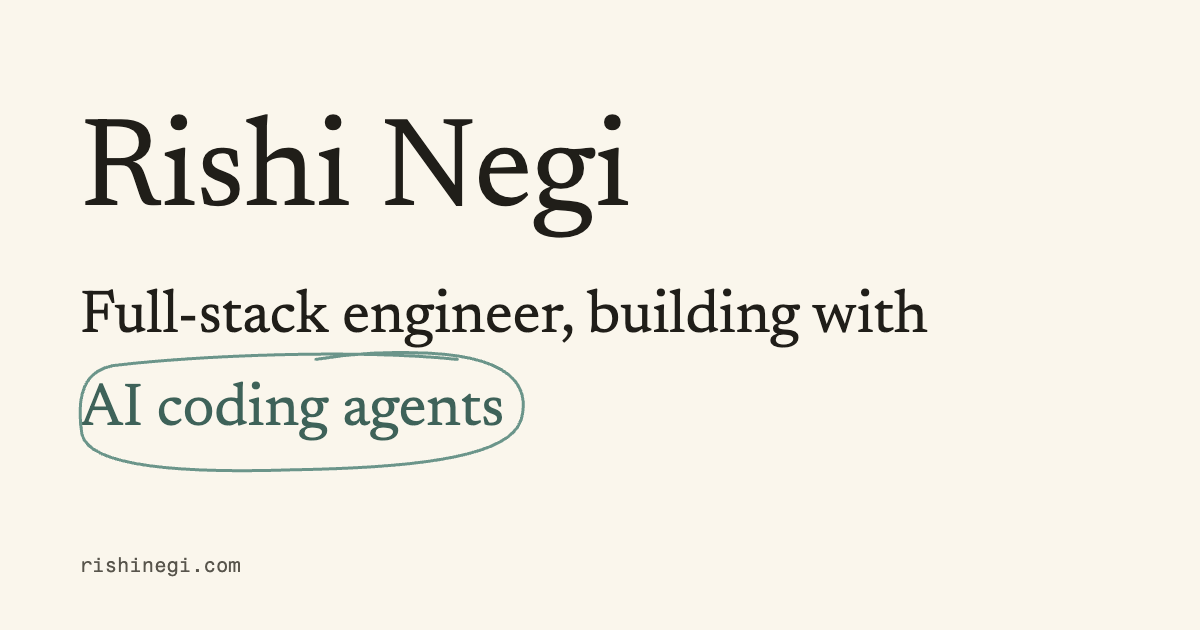
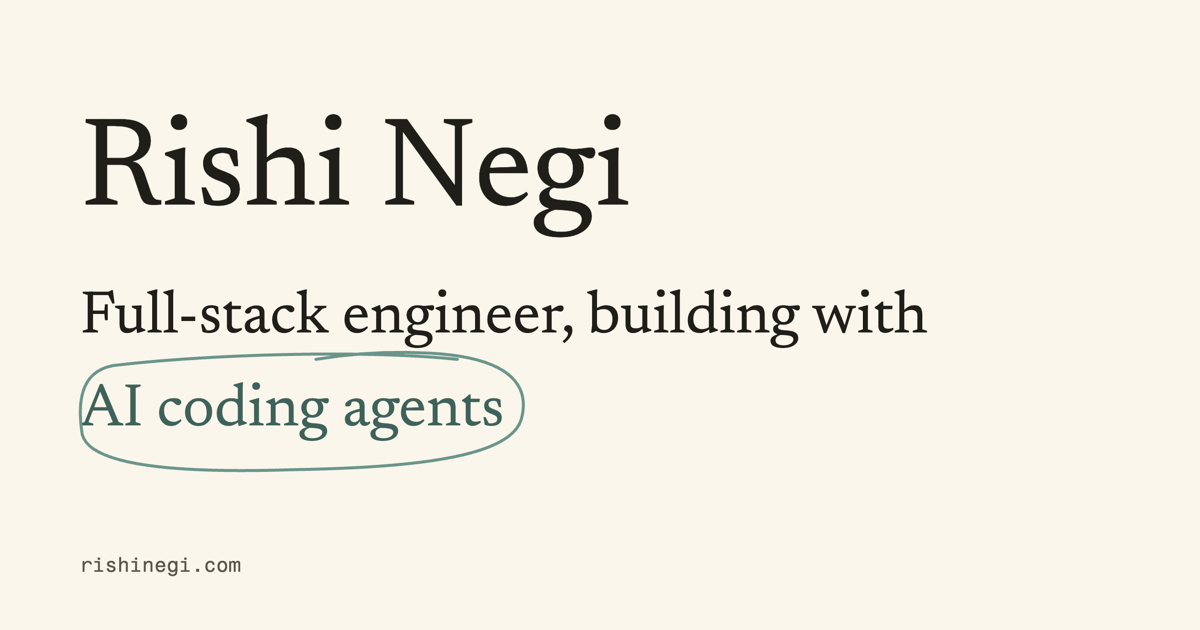
Sharpen the home link-preview image and cache-bust both og images
og.png is re-rendered with the same 2x render and high-quality
downscale as og-applyd.png, so its text edges are clean in previews.
Scrapers cache an image by its URL, so both og:image URLs gain ?v=2
(index.html for home, pageMeta.applyd.ogImage for the case study);
bump it whenever an image changes. The page-previews plugin's check
that the image is in public/ now ignores the query string.

diff --git a/src/content.ts b/src/content.ts
@@ -65,8 +65,9 @@ export const pageMeta = {
     title: 'Applyd case study | Rishi Negi',
     description:
       'How I built Applyd, a job application tracker, by hand and then with Claude Code.',
-    /** the link-preview image, made by scripts/og-applyd.tsx */
-    ogImage: '/og-applyd.png',
+    /** the link-preview image, made by scripts/og-applyd.tsx. The ?v= is a cache-buster:
+     *  scrapers cache an image by its URL, so bump it whenever the image changes. */
+    ogImage: '/og-applyd.png?v=2',
     ogImageAlt:
       'Applyd, a job application tracker. A case study: one job tracker, built by hand ' +
       'and then with Claude Code. Beside the title, a screenshot of its Paper redesign. ' +

diff --git a/vite.config.ts b/vite.config.ts
@@ -71,8 +71,10 @@ function pagePreviews(): Plugin {
       ).origin
 
       for (const page of [pageMeta.applyd]) {
-        if (publicDir && !existsSync(join(publicDir, page.ogImage))) {
-          throw new Error(`page-previews: ${page.ogImage} is missing from public/ (run its script)`)
+        // ogImage may carry a ?v= cache-buster; the file on disk doesn't.
+        const imageFile = page.ogImage.split('?')[0]
+        if (publicDir && !existsSync(join(publicDir, imageFile))) {
+          throw new Error(`page-previews: ${imageFile} is missing from public/ (run its script)`)
         }
         const url = origin + page.path
         let out = html

diff --git a/scripts/og-image.tsx b/scripts/og-image.tsx
@@ -6,6 +6,7 @@
 //
 // The role line, the circled phrase and the name come from src/content.ts, so the image
 // can't drift from the hero. Re-run it whenever identity.heroRole or heroMark changes.
+// Rendered at 2x and downscaled (see lib/render-card.ts), so the text edges stay clean.
 import { join, resolve } from 'node:path'
 import { identity } from '../src/content'
 import { LOOP_PATH } from '../src/lib/penLoop'
@@ -37,4 +38,4 @@ const html = `<!doctype html><meta charset="utf-8">${fontLinks}
 </main>
 <div class="site">rishinegi.com</div>`
 
-await renderCard(html, out, 1200, 630)
+await renderCard(html, out, 1200, 630, { supersample: 2 })

diff --git a/index.html b/index.html
@@ -33,7 +33,7 @@
       content="Full-stack engineer in London, building with AI coding agents. Former production support engineer who likes understanding how things work."
     />
     <meta property="og:url" content="https://www.rishinegi.com/" />
-    <meta property="og:image" content="https://www.rishinegi.com/og.png" />
+    <meta property="og:image" content="https://www.rishinegi.com/og.png?v=2" />
     <meta property="og:image:width" content="1200" />
     <meta property="og:image:height" content="630" />
     <meta
